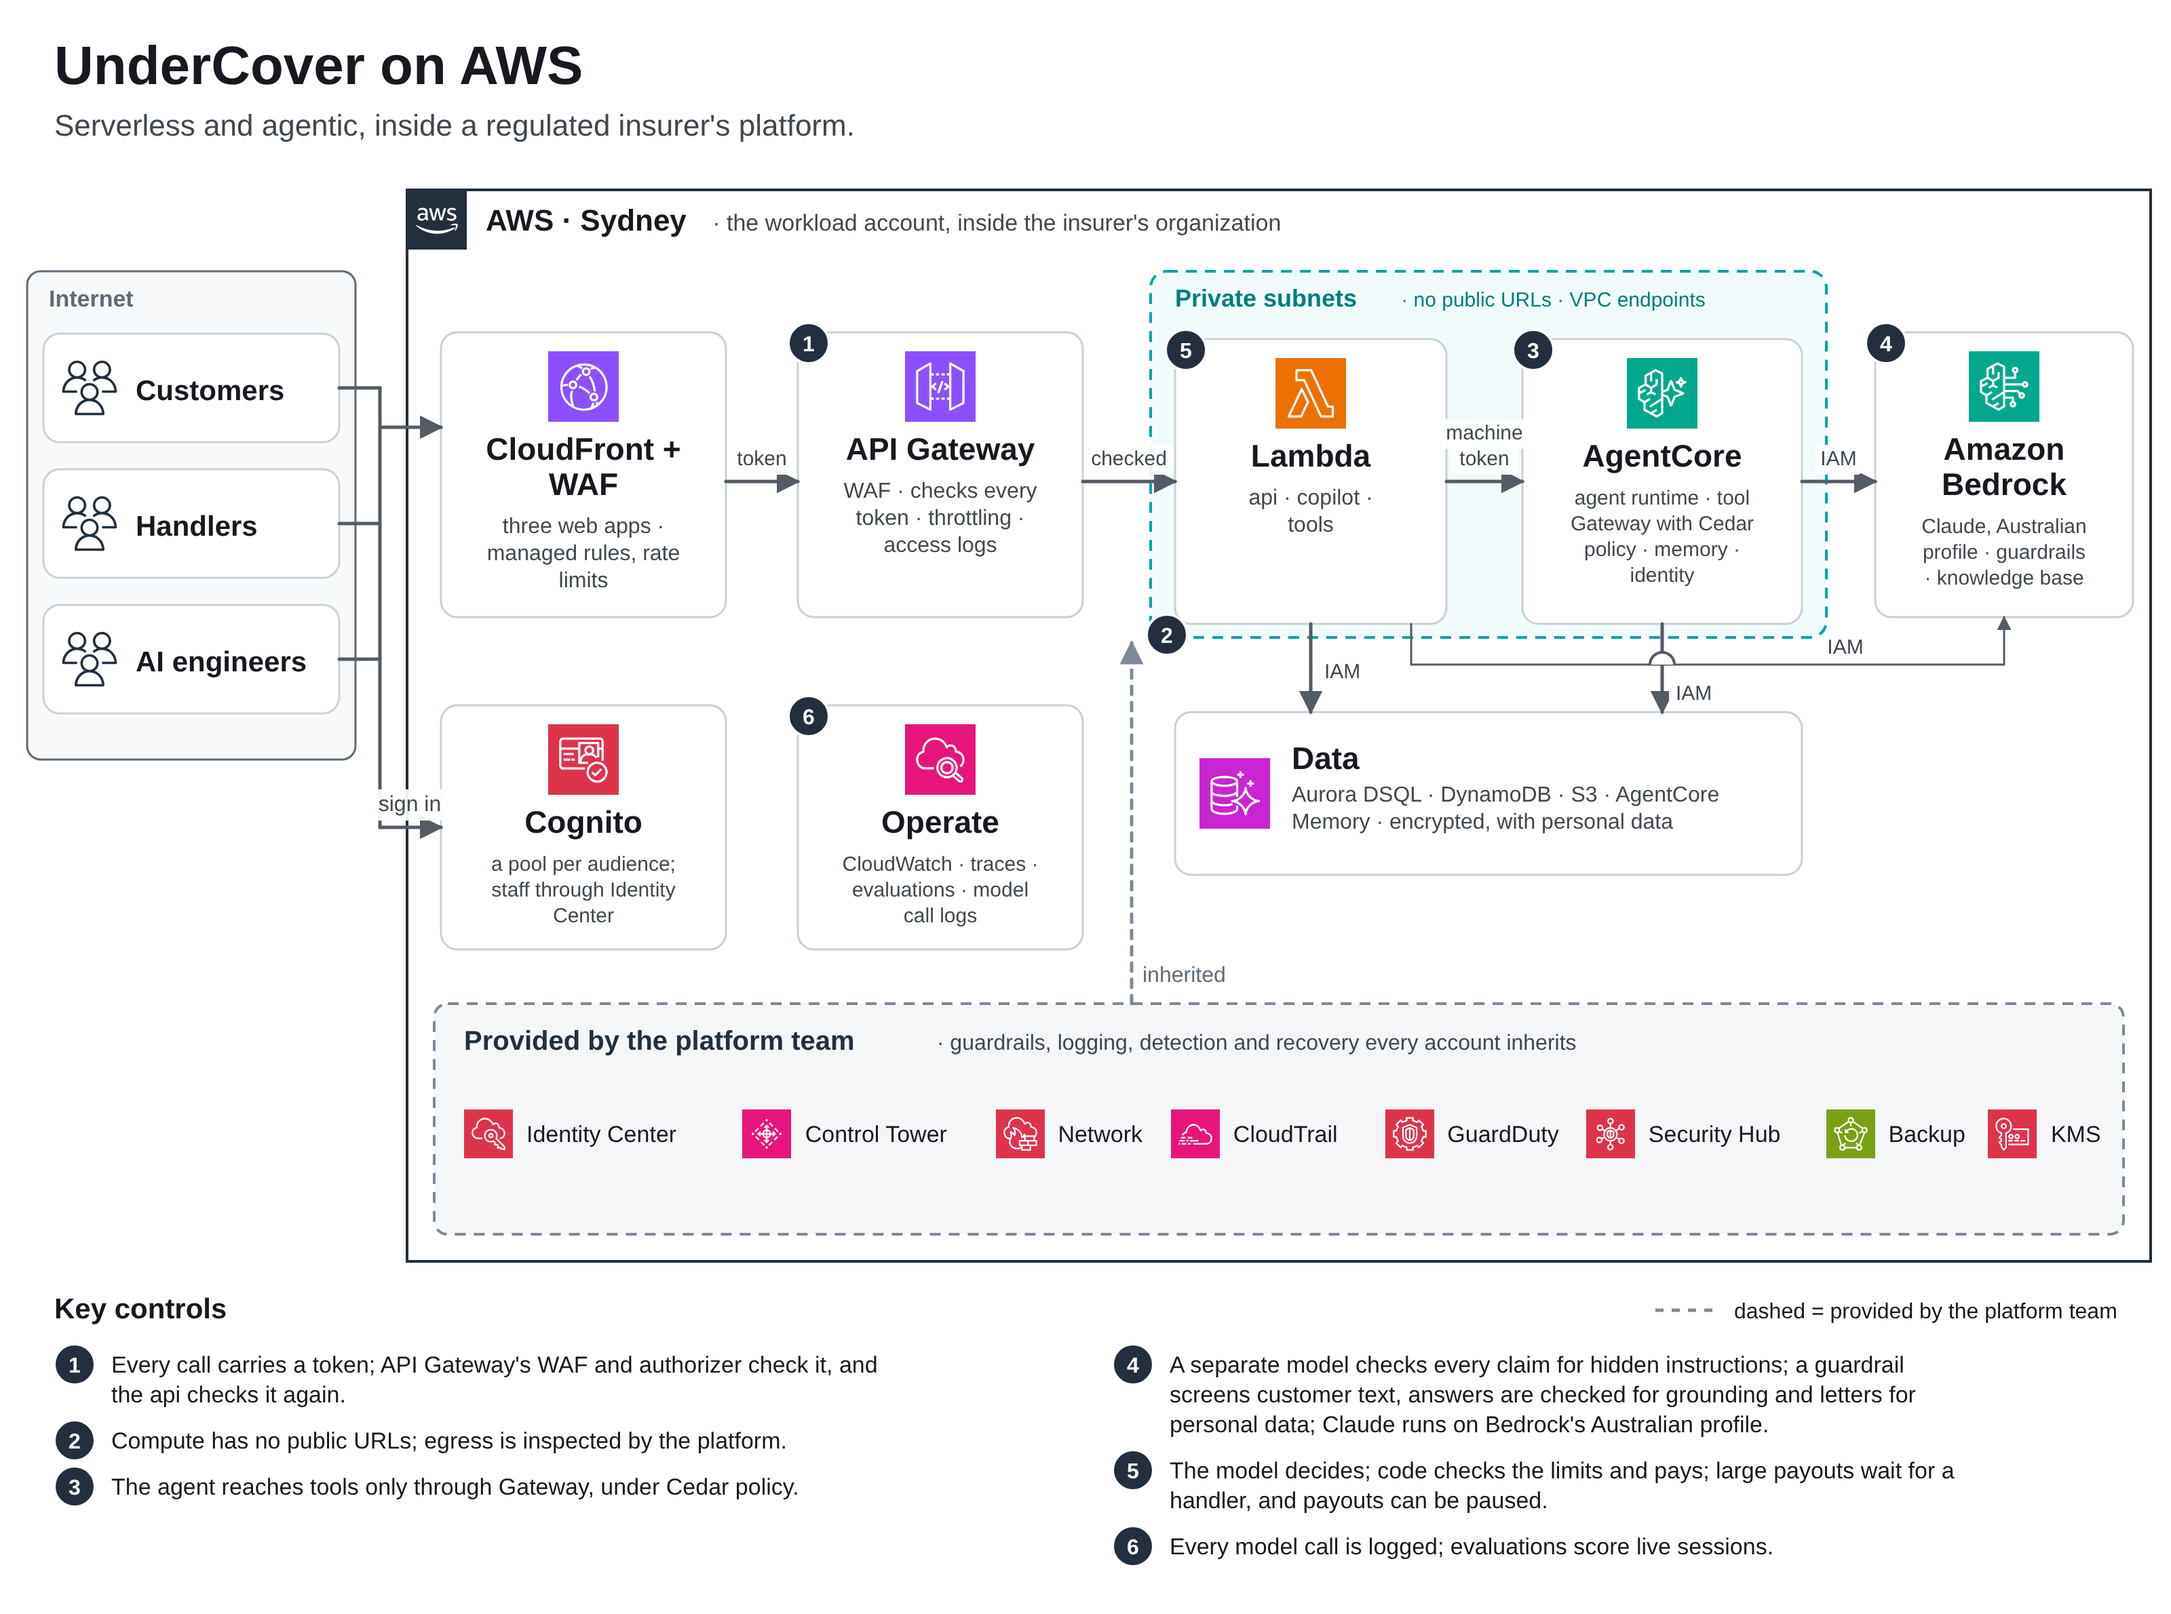
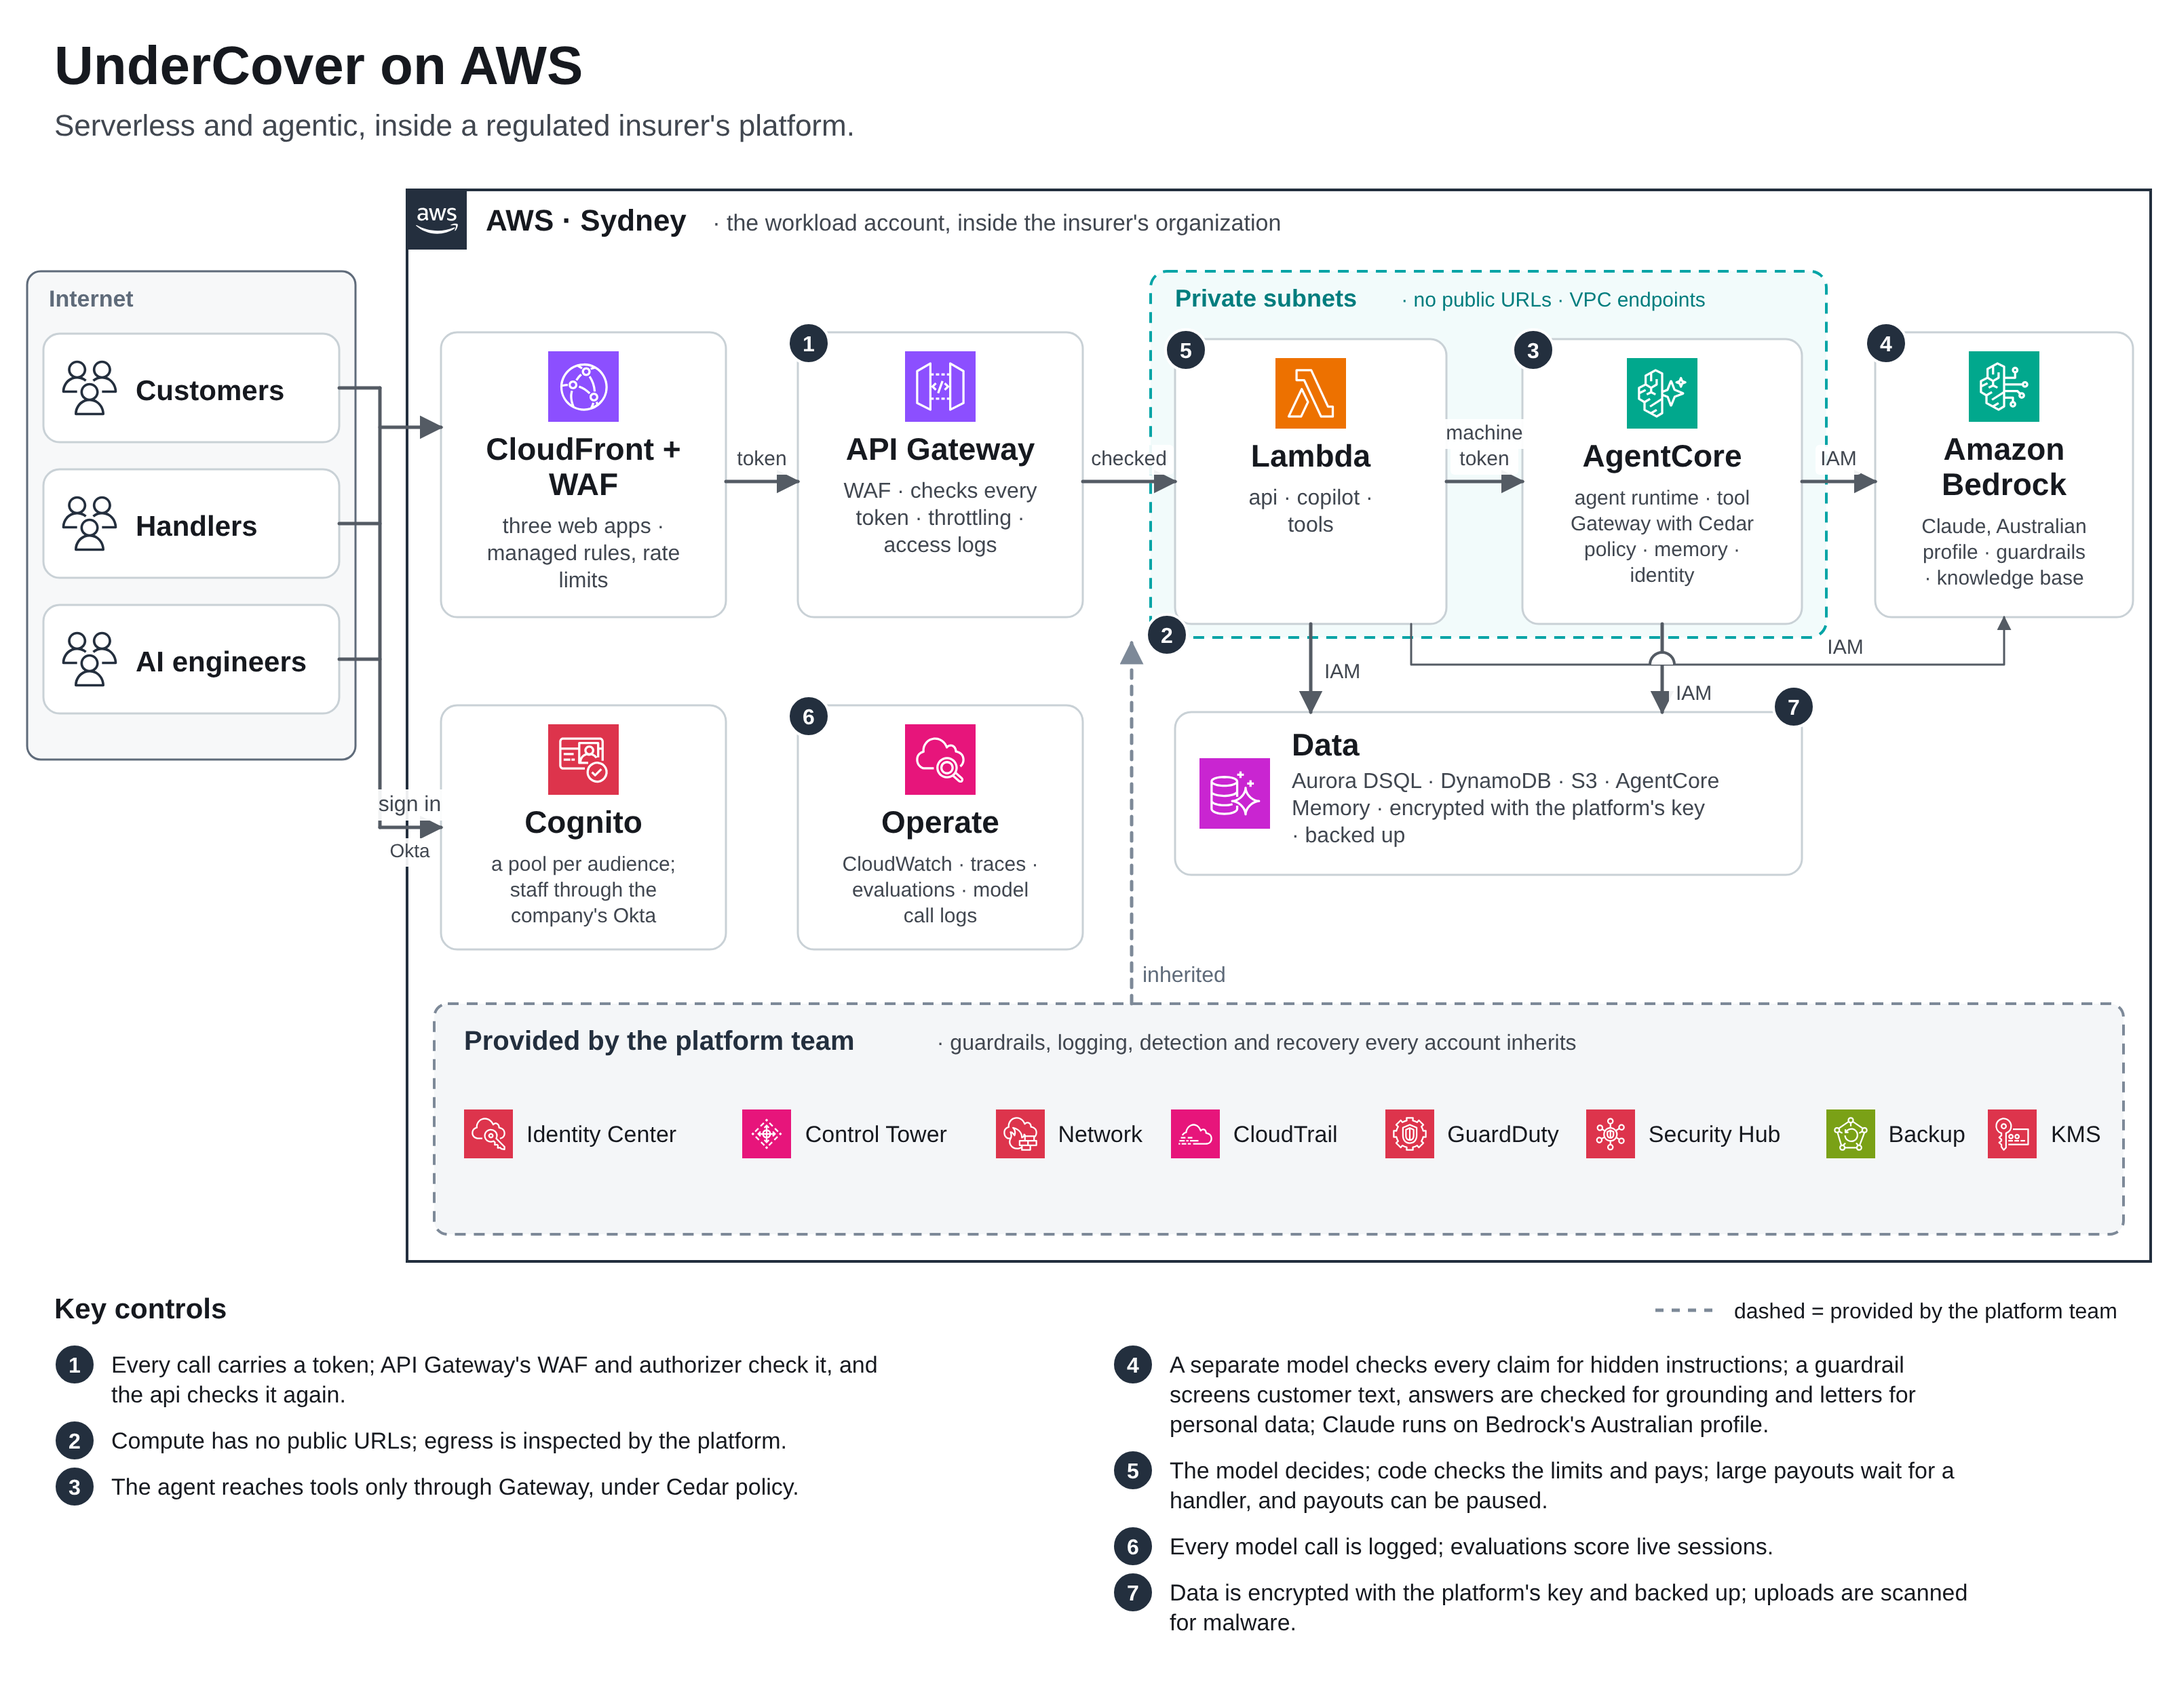
Overview diagram with Okta and data controls

diff --git a/README.md b/README.md
@@ -56,7 +56,7 @@ Each claim costs 2 to 4 cents of Claude. Docker is for testing locally; the desi
 
 ## Architecture
 
-<img src="docs/assets/architecture-overview.png" width="880" alt="UnderCover on AWS, in Sydney: customers, handlers and AI engineers sign in with Cognito and reach the apps through CloudFront and WAF; API Gateway, with its own WAF, checks every token; Lambda (the api, the copilot and the tools) and AgentCore (the agent runtime, a tool gateway under Cedar policy, memory and identity) run in private subnets and call Claude, guardrails and the knowledge base on Amazon Bedrock; data in Aurora DSQL, DynamoDB, S3 and AgentCore Memory; staff sign in with the company's Okta; the platform team provides Identity Center, Control Tower, the network, CloudTrail, GuardDuty, Security Hub, backup and keys.">
+<img src="docs/assets/architecture-overview.png" width="880" alt="UnderCover on AWS, in Sydney: customers, handlers and AI engineers sign in with Cognito and reach the apps through CloudFront and WAF; API Gateway, with its own WAF, checks every token; Lambda (the api, the copilot and the tools) and AgentCore (the agent runtime, a tool gateway under Cedar policy, memory and identity) run in private subnets and call Claude, guardrails and the knowledge base on Amazon Bedrock; data in Aurora DSQL, DynamoDB, S3 and AgentCore Memory, encrypted with the platform's key and backed up, with uploads scanned for malware; staff sign in with the company's Okta; the platform team provides Identity Center, Control Tower, the network, CloudTrail, GuardDuty, Security Hub, backup and keys.">
 
 The full diagram, with each step and control: [the AWS architecture guide](guides/03-aws-architecture.md).
 
